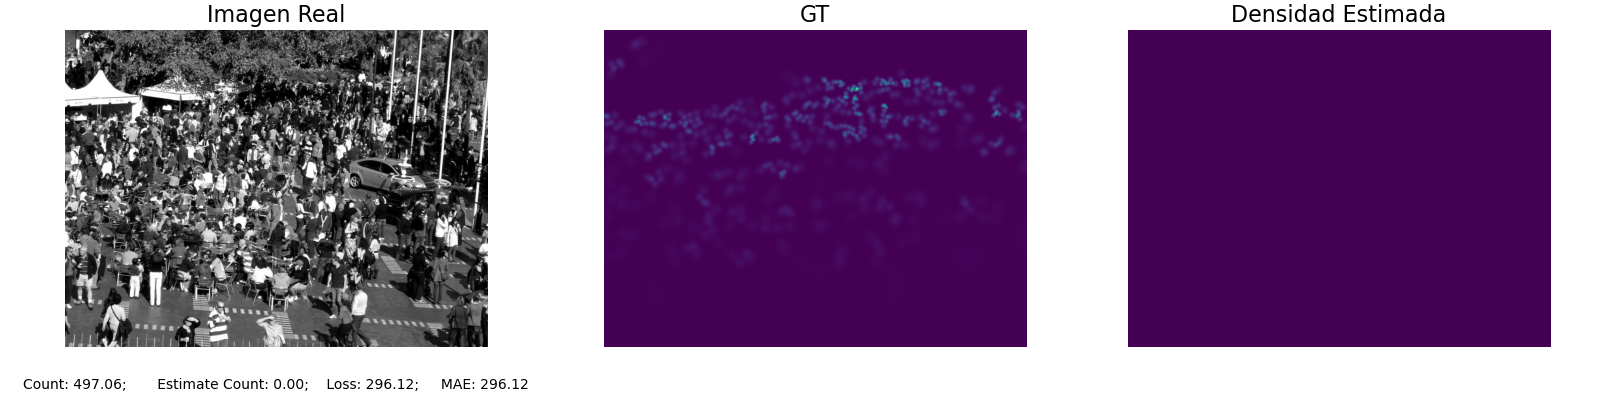
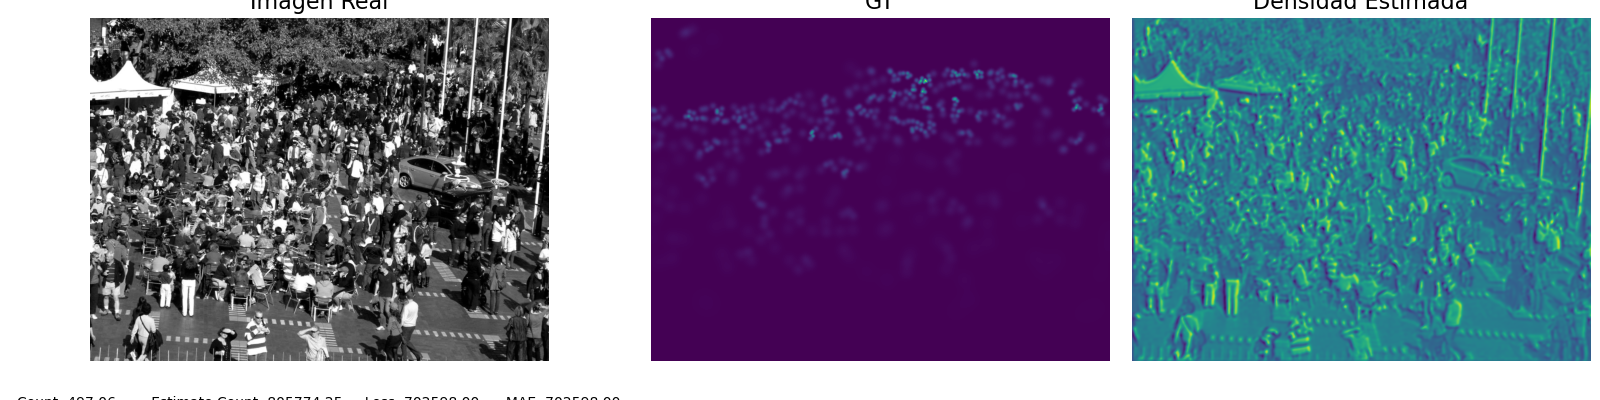
Se crea un nuevo prototipo de poco exito v0.2

diff --git a/model.py b/model.py
@@ -15,7 +15,7 @@ class Betsy(tf.keras.Model):
                                    trainability=[False, True, True],
                                    sigma_init= input_sigmas[0],
                                    random_init=False, 
-                                   use_bias=False,
+                                   use_bias=True,
                                    name = 'Gaussian1')
 
     self.gaussian2 = FTGDConvLayer(filters=14, 
@@ -53,44 +53,31 @@ class Betsy(tf.keras.Model):
     
     self.gaussian5 = FTGDConvLayer(filters=64, 
                                    kernel_size = input_kernel_size, 
-                                   num_basis= 1, 
+                                   num_basis= 4, 
                                    order=2, 
-                                   separated = False,
+                                   separated = True,
                                    trainability=[False, True, True],
                                    sigma_init= input_sigmas[4],
                                    random_init=False, 
                                    use_bias=False,
                                    name = 'Gaussian5')
     
-  
     self.output_layer = tf.keras.layers.Conv2D(1,1, 
                                                activation='relu',
                                                input_shape = (input_shape[0], input_shape[1], 64))
-    self.train_op = tf.keras.optimizers.Adam(learning_rate = 0.01)
-    
+       
     self.sMAE = sMAE()
     self.RMSE = RMSE()
 
 
   def call(self, input):
     x = self.gaussian1(input)
-    x = tf.keras.layers.Activation('relu')(x)
     x = self.gaussian2(x)
-    x = tf.keras.layers.Activation('relu')(x)
     x = self.gaussian3(x)
-    x = tf.keras.layers.Activation('relu')(x)
     x = self.gaussian4(x)
-    x = tf.keras.layers.Activation('relu')(x)
-    x = self.gaussian5(x)
-    x = tf.keras.layers.Activation('relu')(x)  
+    x = self.gaussian5(x) 
     return self.output_layer(x)
-  
-  def deploy(self):
-    self.gaussian1.deploy()
-    self.gaussian2.deploy()
-    self.gaussian3.deploy()
-    self.gaussian4.deploy()
-    self.gaussian5.deploy()
+   
 
   def get_loss(self, train_image, test_GT):
     train_pred_GT = self.call(train_image)
@@ -210,7 +197,7 @@ def GAME_recursive(density, gt, currentLevel, targetLevel):
 def GAME_loss(preds, gts):
   res2 = tf.constant(0, dtype=np.float32)
   for i in range(len(gts)):
-    res2 = res2 + (GAME_recursive(preds[i], gts[i], 0, 2))
+    res2 = res2 + (GAME_recursive(preds[i], gts[i], 0, 1))
   return tf.math.divide(res2, tf.cast(len(gts), tf.float32))
 
 

diff --git a/train.py b/train.py
@@ -51,15 +51,34 @@ cp_callback = tf.keras.callbacks.ModelCheckpoint(filepath=checkpoint_path,
 model.fit(train_img, 
           train_GT, 
           batch_size = batch_size, 
-          epochs = 6, 
-          validation_data=(test_img, test_GT), 
-          callbacks=[cp_callback])
+          epochs = 5, 
+          validation_data=(test_img, test_GT))
 
+print('Entrenamiento Terminado! \n')
 #latest = tf.train.latest_checkpoint(checkpoint_dir)
 #model.load_weights(latest)
-model.deploy()
-predict = model.predict(train_img)
+
+
+model.layers[0].deploy()
+model.layers[1].deploy()
+model.layers[2].deploy()
+model.layers[3].deploy()
+model.layers[4].deploy()
+
+dpy = {'G1 dpy': model.layers[0].deployed,
+       'G2 dpy': model.layers[1].deployed,
+       'G3 dpy': model.layers[2].deployed,
+       'G4 dpy': model.layers[3].deployed,
+       'G5 dpy': model.layers[4].deployed}
+print(dpy)
+
+print('Calculando Prediccion... \n')
+predict = model(test_img)
+print('Done!')
+
+print('Creando los ploting... \n')
 count_estimate(test_img, test_GT, predict, model)
+print('Done!')
     
     
     

diff --git a/plotting.py b/plotting.py
@@ -21,7 +21,7 @@ def count_estimate(test_img, test_gt, predict, model):
 def plotting_testing_01(test_img, test_GT, predict, GT_count, est_count, est_loss, est_MAE, i):
     font = {'color':  'black','weight': 'normal','size': 16}
 
-    fig = plt.figure(figsize=(16, 4), constrained_layout=True)
+    fig = plt.figure(figsize=(16, 5), constrained_layout=True)
     ax1 = fig.add_subplot(1,3,1)
     ax1.imshow(test_img, cmap = 'gray')
     ax1.axis('off')
